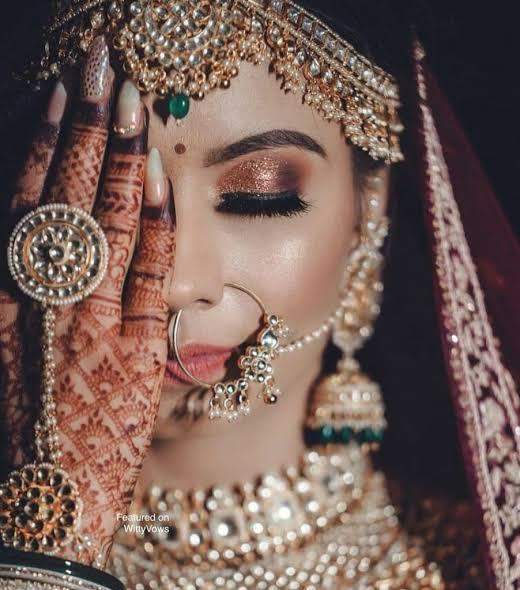
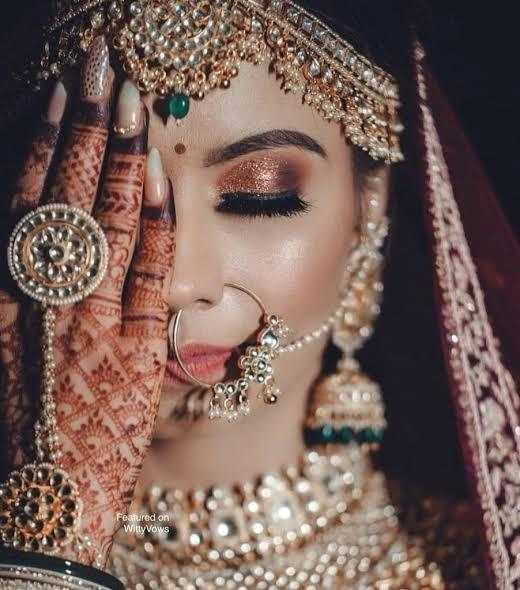
On branch main  Your branch is up to date with 'origin/main'.
Changes to be committed:
	modified:   514006194_9834860213292705_4522413936133588580_n.jpg
	modified:   index.html
	deleted:    makeupbydimple.jpeg
	new file:   makeupbydimple.jpg

diff --git a/index.html b/index.html
@@ -41,7 +41,7 @@
         
         
     <div class="service-img">
-            <img src="makeupbydimple.jpeg" alt="Bridal makeup artist applying traditional makeup to a bride adorned with gold jewelry and floral hair accessories, set in a festive and elegant environment">
+            <img src="makeupbydimple.jpg" alt="Bridal makeup artist applying traditional makeup to a bride adorned with gold jewelry and floral hair accessories, set in a festive and elegant environment">
             <div class="service-caption"><b>Bridal Makeup</b><p>₹10,000-/ To ₹25,000-/</p><p>Get the perfect bridal glow with elegant, long-lasting makeup tailored just for your big day. We enhance your natural beauty to make you look stunning from every angle.</p></div>
         </div>
         <div class="service-img">
